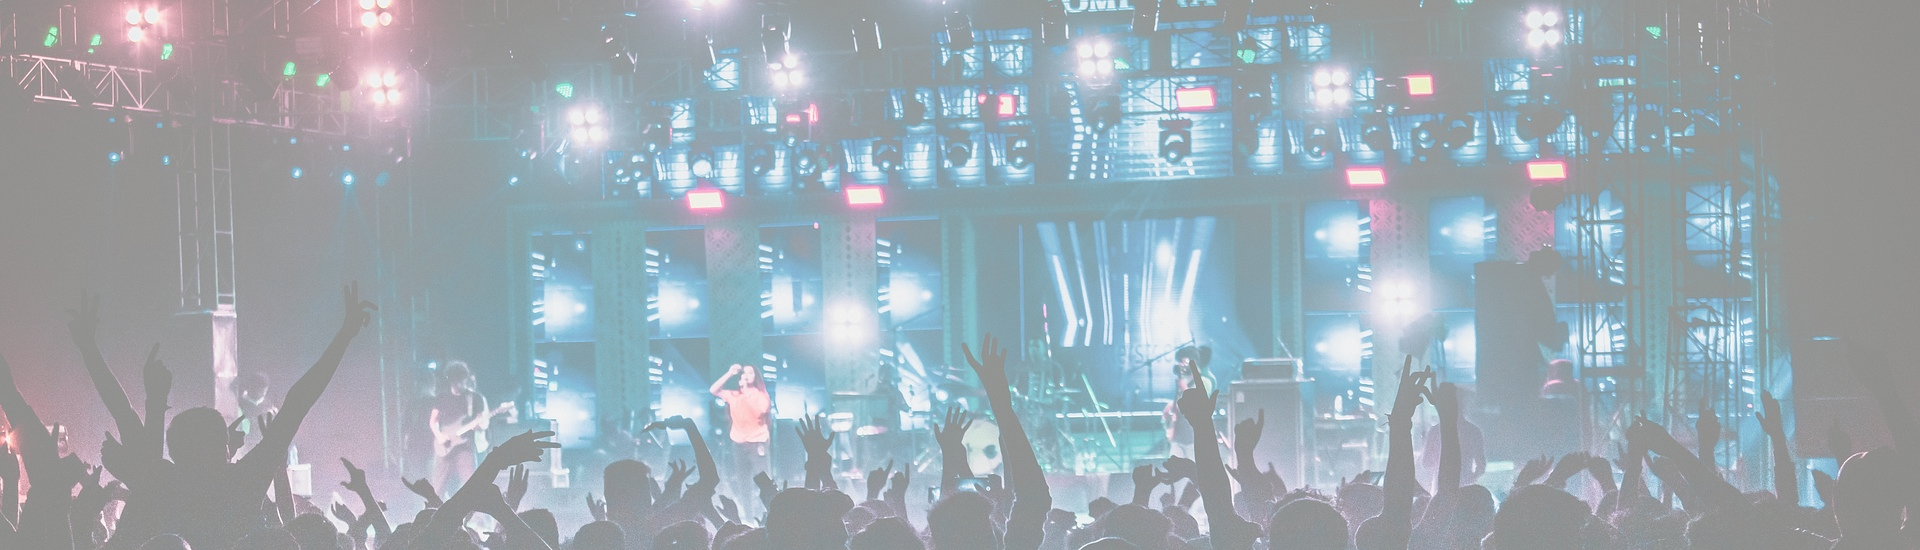
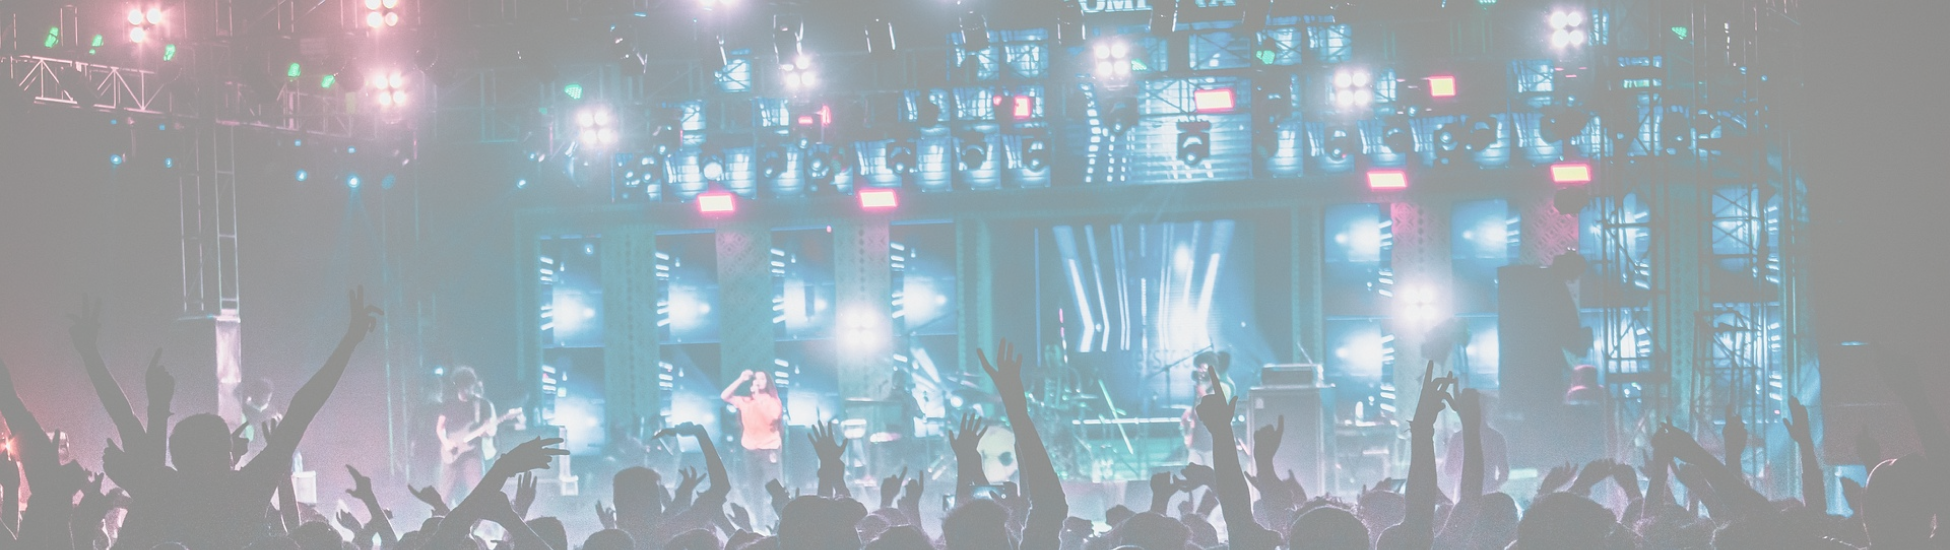
update_find_img

diff --git a/src/assets/scss/page/_findmusic.scss b/src/assets/scss/page/_findmusic.scss
@@ -10,7 +10,7 @@ h1{
     justify-content: center;
     align-items: flex-end;
     width: 100%;
-    height: 30vh;
+    height: 35vh;
     margin: 4% 0 0;
     background-position: bottom;
     background-repeat: no-repeat;
